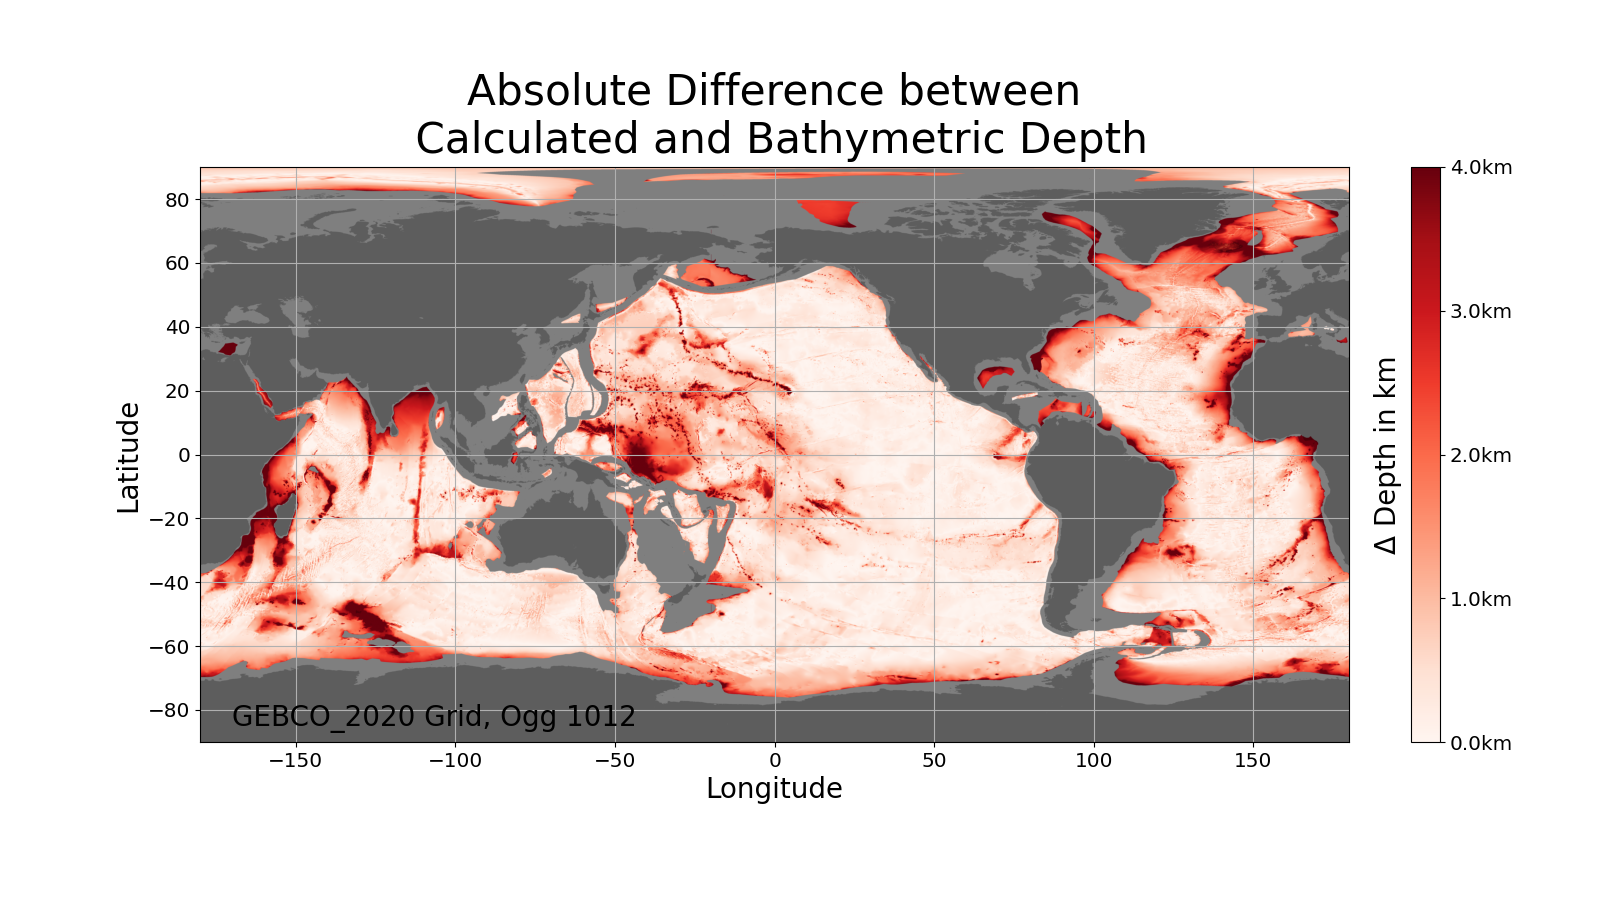
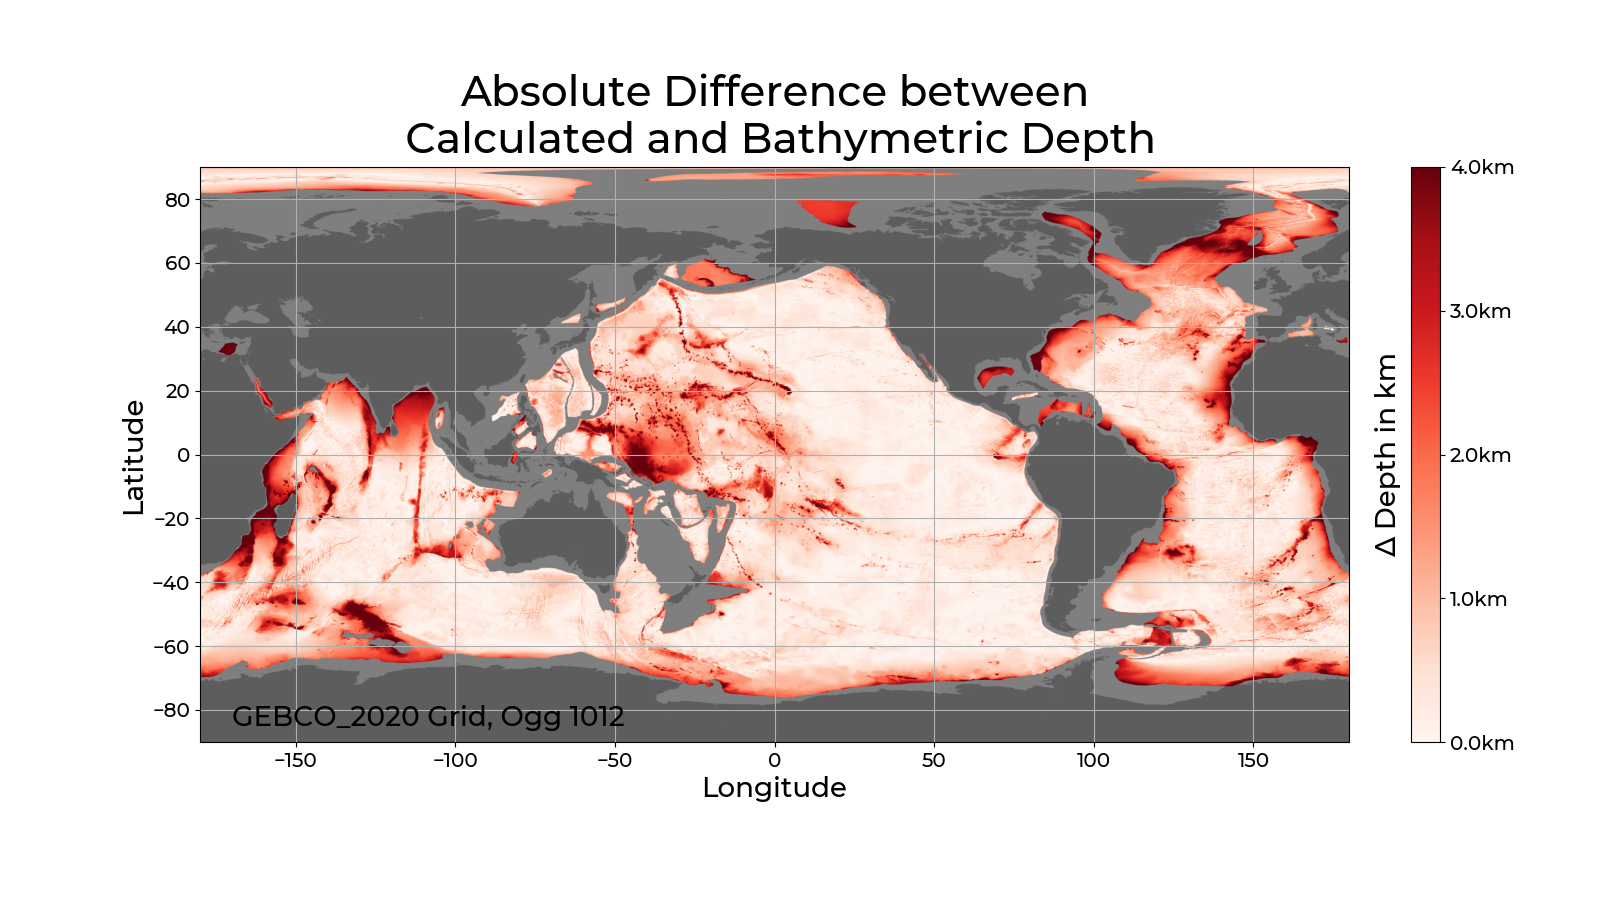
better plots/typo

diff --git a/scripts/plotting.py b/scripts/plotting.py
@@ -2,11 +2,21 @@ import numpy as np
 from scripts import data_prep as data
 from matplotlib import pyplot as plt
 import matplotlib.colors as mcolors
+import matplotlib.font_manager as fm
+from matplotlib.lines import Line2D
 
-# TODO hist and all maps typo and scales
-# TODO plot actual depth over expected depth for all grid points in absolute
-# TODO heat map for scatter
+
+# TODO all_maps typo and scales
+# TODO heat map for scatter, age as 3rd axis
+# TODO scatter 2. axis fix!
 # variables
+
+font_path_regular = "C:/Users/fynnf/Documents/Weiteres/Fonts/static/Montserrat-Medium.ttf"
+fm.fontManager.addfont(font_path_regular)  # Register font
+montserrat_regular = fm.FontProperties(fname=font_path_regular).get_name()  # Get font name
+
+# Set Montserrat as the default font
+plt.rcParams["font.family"] = montserrat_regular
 
 cmap1 = plt.cm.viridis
 cmap2 = plt.cm.turbo_r
@@ -85,7 +95,7 @@ def all_maps():
 
 # depth anomaly map-----------------------------------------------------------------------------------------------------
 def depth_anomaly_map(size):
-    ratio = size * 16/9
+    ratio = size * 16 / 9
     fig2, ax = plt.subplots(figsize=(ratio, size))
     depth_img = ax.imshow(
         data.depth_anomaly,
@@ -131,7 +141,7 @@ def depth_anomaly_map(size):
 
 # depth absolute anomaly map--------------------------------------------------------------------------------------------
 def depth_abs_anomaly_map(size):
-    ratio = size * 16/9
+    ratio = size * 16 / 9
     fig2, ax = plt.subplots(figsize=(ratio, size))
     depth_img = ax.imshow(
         data.depth_anomaly_abs,
@@ -171,24 +181,68 @@ def depth_abs_anomaly_map(size):
 
 
 # functions.plot_scatter(d_grid, b_grid_shift_ocean)
+def depth_anomaly_scatter():
+    mask_positive = data.grid2 > 0  # where bathymetry is > 0 -> land
 
-# depth anomaly histogram-----------------------------------------------------------------------------------------------
-def depth_anomaly_hist():
-    grid1_flat = np.reshape(data.d_grid, -1)
-    grid2_flat = np.reshape(data.b_grid_shift_ocean, -1)
-    mask_nan = ~np.isnan(grid1_flat) & ~np.isnan(grid2_flat)
-    grid1_flat_clean = grid1_flat[mask_nan]
-    grid2_flat_clean = grid2_flat[mask_nan]
-    diff = grid2_flat_clean - grid1_flat_clean
+    optimum_line = np.linspace(-8000, -2000, 2)
 
-    plt.figure()
-    plt.axvline(x=0, alpha=0.4, color='red', linestyle='--', linewidth=2)
-    plt.hist(diff, bins=100, alpha=1, range=(-3000, 7000))
-    plt.title("Distribution of Δ depth", fontsize=font_header_scale)
-    plt.text(5800, 1.95 * 10 ** 6, "GEBCO_2020 Grid, Ogg 1012")
-    plt.xlabel("anomaly in m", fontsize=font_label_scale)
-    plt.ylabel("amount of data points", fontsize=font_label_scale)
-    plt.text(-3000, 8 * 10 ** 5, "Deeper than calculation", color="blue", fontsize=font_text_scale)
-    plt.text(2000, 8 * 10 ** 5, "Shallower than calculation", color="red", fontsize=font_text_scale)
+    fig = plt.figure(figsize=(15, 8))
+    ax1 = fig.add_subplot()
+    ax2 = ax1.twiny()
+    plt.scatter(data.grid1[~mask_positive], data.grid2[~mask_positive], s=0.01, color="blue")
+    plt.scatter(data.grid1[mask_positive], data.grid2[mask_positive], s=0.01, color="green")    # above sea level
+    plt.plot(optimum_line, optimum_line, color="red")
+    plt.gca().invert_xaxis()
+    plt.title("Real Depth Over Calculated Depth", fontsize=28)
+    plt.text(-2000, -10000, "GEBCO_2020 Grid, Ogg 2012")
+    ax1.set_xlabel("calculated depth", fontsize=16)
+    ax1.set_ylabel("real depth", fontsize=16)
+
+    '''age_ticks = np.linspace(0, 100, 5)
+    ax2.set_xlim(ax1.get_xlim())
+    #ax2.set_xticks(data.grid1)
+    ax2.set_xticks(age_ticks)
+    age_values = np.linspace(0, 100, num=5)
+    ax2.set_xticklabels([f"{age:.0f} Ma" for age in age_values])'''
+    # Custom legend markers for larger dots
+    legend_elements = [
+        Line2D([0], [0], marker='o', color='w', markerfacecolor='blue', markersize=10, label="Below Sea Level"),
+        Line2D([0], [0], marker='o', color='w', markerfacecolor='green', markersize=10, label="Above Sea Level"),
+        Line2D([0], [0], color='red', linewidth=2, label="calc. depth = real depth")
+    ]
+    plt.legend(handles=legend_elements, loc="upper right", fontsize=14)
     plt.show()
 
+
+# depth anomaly histogram-----------------------------------------------------------------------------------------------
+def depth_anomaly_hist(size, bins):
+    if data.accuracy == 2:  # how many data points do we have
+        y_factor = 10
+    else:
+        y_factor = 1
+    y_max = int(20000000 / bins) * y_factor
+    fig3, ax = plt.subplots(figsize=(size, size))
+    relative_font_size = fig3.get_size_inches()[0] * 0.9  # gets font size relative to figure size
+    plt.axvline(x=10, alpha=0.4, color='red', linestyle='--', linewidth=2)
+    plt.axvline(x=-10, alpha=0.4, color='blue', linestyle='--', linewidth=2)
+    plt.hist(data.grid_point_diffs, bins=bins, alpha=1, range=(-2000, 6000), color=(0.9, 0.5, 0.1))
+    plt.tick_params(labelsize=relative_font_size * font_axes_scale)
+    x_ticks = np.linspace(-2000, 6000, num=5)  # Choose appropriate tick positions
+    ax.set_xticks(x_ticks)
+    ax.set_xticklabels([f"{int(tick * 0.001)} km" for tick in x_ticks])  # Convert to km and format
+    y_ticks = np.linspace(y_max / 4, y_max, num=4)  # Choose appropriate tick positions
+    ax.set_yticks(y_ticks)
+    ax.set_yticklabels([f"{int(tick * 0.001)}k" for tick in y_ticks])  # Convert to km and format
+    plt.title("Quantitative distribution \nof depth anomaly", fontsize=relative_font_size * font_header_scale, pad=10)
+    plt.text(0.98, 0.98, "GEBCO_2020 Grid, Ogg 2012",
+             fontsize=relative_font_size * font_text_scale,
+             ha="right", va="top", transform=ax.transAxes)
+    plt.xlabel("calculated depth - bathymetric depth", fontsize=relative_font_size * font_label_scale)
+    ax.text(0.02, 0.6, "deeper than\ncalculated",
+            fontsize=relative_font_size * font_text_scale, color='b',
+            ha="left", va="bottom", transform=ax.transAxes)
+    ax.text(0.52, 0.6, "shallower than\ncalculated",
+            fontsize=relative_font_size * font_text_scale, color='r',
+            ha="left", va="bottom", transform=ax.transAxes)
+    plt.ylabel("Amount of data points", fontsize=relative_font_size * font_label_scale)
+    plt.show()

diff --git a/scripts/functions.py b/scripts/functions.py
@@ -1,8 +1,6 @@
 import numpy as np
 from scipy.io import netcdf_file
 import os
-from matplotlib import pyplot as plt
-from matplotlib.lines import Line2D
 
 
 # the theory of cooling oceanic litosphere in geo3 script1 P. 124
@@ -119,30 +117,6 @@ def exclude_continental_plate(grid1, grid2):
     return grid2_ocean
 
 
-'''
-def shift_longitude(lon, grid, new_center):
-    # shift center to wherever you want
-    cut_deg = new_center
-    if 0 <= new_center <= 180:
-        cut_deg -= 180
-    elif -180 <= new_center < 0:
-        cut_deg += 180
-    else:
-        raise ValueError("ERROR: Choose value between -180 and 180 for new_center!")
-    # TODO fix the index problem
-    right_lon = lon[(lon >= cut_deg) | (lon < -180+cut_deg)]
-    left_lon = lon[(lon < cut_deg) | (lon > 180+cut_deg)]
-    new_lon = np.concatenate((right_lon, left_lon))
-
-    right_idx = np.where((lon >= cut_deg) | (lon < -180+cut_deg))[0]
-    left_idx = np.where((lon < cut_deg) | (lon > 180+cut_deg))[0]
-    new_idx = np.concatenate((right_idx, left_idx))
-
-    new_grid = grid[:, new_idx]
-    return new_lon, new_grid
-'''
-
-
 def shift_longitude(lon, grid, new_center):
     shift = - (len(lon)/360) * new_center
     shifted_lon = np.roll(lon, shift)
@@ -161,31 +135,12 @@ def trim_grid(lat, lon, grid, ref_grid):
     return new_lat, new_lon, new_grid
 
 
-def plot_scatter(grid1, grid2):
+def compare_grid_points(grid1, grid2):
     grid1_flat = np.reshape(grid1, -1)
     grid2_flat = np.reshape(grid2, -1)
     mask_nan = ~np.isnan(grid1_flat) & ~np.isnan(grid2_flat)
     grid1_flat_clean = grid1_flat[mask_nan]
     grid2_flat_clean = grid2_flat[mask_nan]
-    mask_positive = grid2_flat_clean > 0
-
-    optimum_line = np.linspace(-8000, -2000, 2)
-
-    fig3 = plt.figure(figsize=(22, 12))
-    plt.scatter(grid1_flat_clean[~mask_positive], grid2_flat_clean[~mask_positive], s=0.0001, color="blue")
-    plt.scatter(grid1_flat_clean[mask_positive], grid2_flat_clean[mask_positive], s=0.0001, color="green")    # above sea level
-    plt.plot(optimum_line, optimum_line, color="red")
-    plt.gca().invert_xaxis()
-    plt.title("Real Depth Over Calculated Depth (low detail)", fontsize=28)
-    plt.text(-2000, -10000, "GEBCO_2020 Grid, Ogg 2012")
-    plt.xlabel("calculated depth", fontsize=16)
-    plt.ylabel("real depth", fontsize=16)
-    # Custom legend markers for larger dots
-    legend_elements = [
-        Line2D([0], [0], marker='o', color='w', markerfacecolor='blue', markersize=10, label="Below Sea Level"),
-        Line2D([0], [0], marker='o', color='w', markerfacecolor='green', markersize=10, label="Above Sea Level"),
-        Line2D([0], [0], color='red', linewidth=2, label="calc. depth = real depth")
-    ]
-    plt.legend(handles=legend_elements, loc="upper right", fontsize=14)
-    plt.show()
+    diff = grid2_flat_clean - grid1_flat_clean
+    return diff, grid1_flat_clean, grid2_flat_clean
 

diff --git a/scripts/data_prep.py b/scripts/data_prep.py
@@ -2,7 +2,9 @@ from scipy.io import netcdf_file
 from scripts import functions
 
 path = "grids/"
-accuracy = 2  # how many minutes° are one grid point (2 or 6)
+accuracy = 6  # how many minutes° are one grid point (2 or 6)
+map_center = 200    # central longitude of plotted map
+max_ridge_age = 0.01    # in Ma, for calculating avr ridge depth
 age_file = netcdf_file(path + f'age.2020.1.GTS2012.{accuracy}m.grd', 'r', mmap=False)
 bathymetry_file = netcdf_file(path + f'GRIDONE_2D_2008_{accuracy}m.nc', mmap=False)
 #print(bathymetry_file.variables.keys())
@@ -29,8 +31,8 @@ bathymetry_file.close()
 # new_lat, new_lon, new_grid = functions.compress_grid(b_grid, 2)
 #write_to_netcdf("GRIDONE_2D_2008_2m.nc", new_lat, new_lon, new_grid)
 
-b_lon_shift, b_grid_shift = functions.shift_longitude(b_lon, b_grid, 200)  # shift lon to new center
-a_lon_shift, a_grid_shift = functions.shift_longitude(a_lon, a_grid, 200)  # shift lon to new center
+b_lon_shift, b_grid_shift = functions.shift_longitude(b_lon, b_grid, map_center)  # shift lon to new center
+a_lon_shift, a_grid_shift = functions.shift_longitude(a_lon, a_grid, map_center)  # shift lon to new center
 
 # adjust grids
 a_lat_trim, a_lon_trim_shift, a_grid_trim_shift = functions.trim_grid(a_lat, a_lon_shift, a_grid_shift,
@@ -38,8 +40,11 @@ a_lat_trim, a_lon_trim_shift, a_grid_trim_shift = functions.trim_grid(a_lat, a_l
 b_grid_shift_ocean = functions.exclude_continental_plate(a_grid_trim_shift, b_grid_shift)  # make continents NaN
 
 # calculate difference:
-avr_ridge_depth = functions.calc_ridge_depth(a_grid_trim_shift, b_grid_shift_ocean, 0.01)
+avr_ridge_depth = functions.calc_ridge_depth(a_grid_trim_shift, b_grid_shift_ocean, max_ridge_age)
 d_grid = functions.age_to_depth(a_grid_trim_shift, avr_ridge_depth)
 depth_anomaly = abs(d_grid) - abs(b_grid_shift_ocean)  # array shows how much calculated depth deviates from actual depth
 depth_anomaly_abs = abs(depth_anomaly)
 land_grid = functions.get_land_grid(b_grid_shift)
+
+# single grid point comparison (for histogram)
+grid_point_diffs, grid1, grid2 = functions.compare_grid_points(d_grid, b_grid_shift_ocean)

diff --git a/main.py b/main.py
@@ -6,5 +6,7 @@ if __name__ == "__main__":
     print("main script")
 
 
-plotting.depth_anomaly_map(9)
-
+#plotting.depth_abs_anomaly_map(9)
+#plotting.depth_anomaly_map(9)
+#plotting.depth_anomaly_hist(9, 500)
+plotting.depth_anomaly_scatter()
